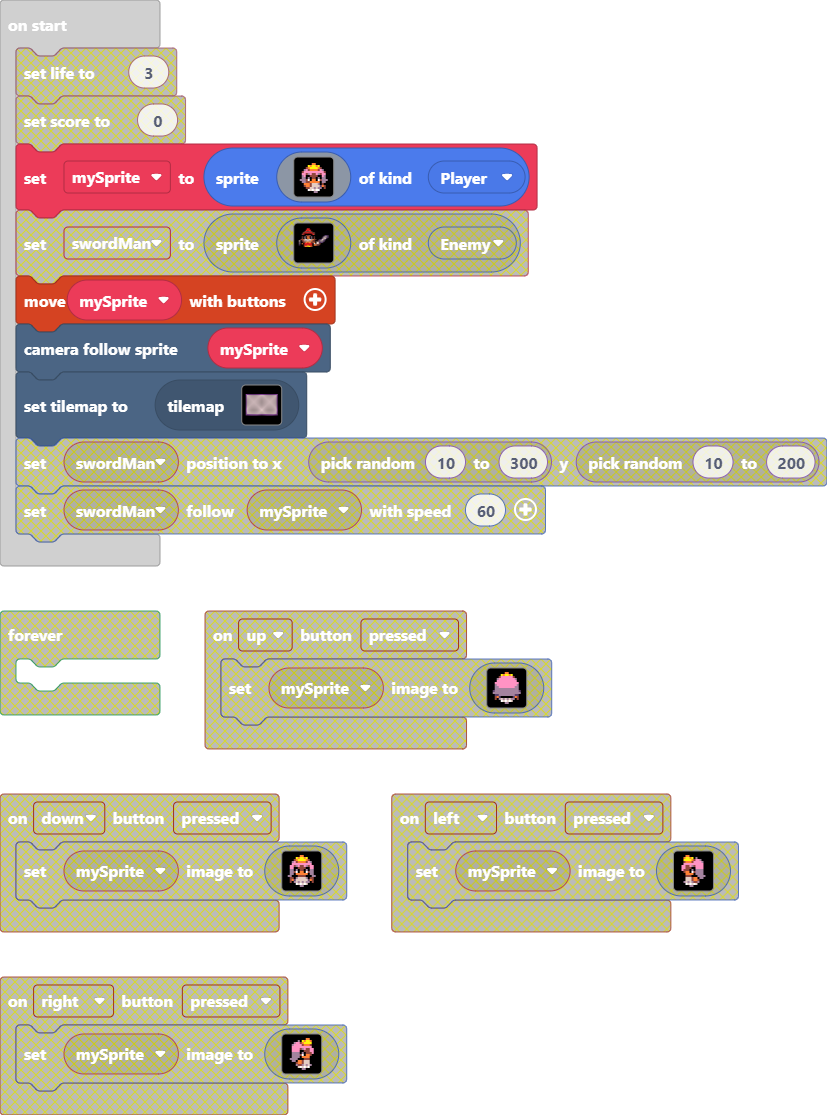
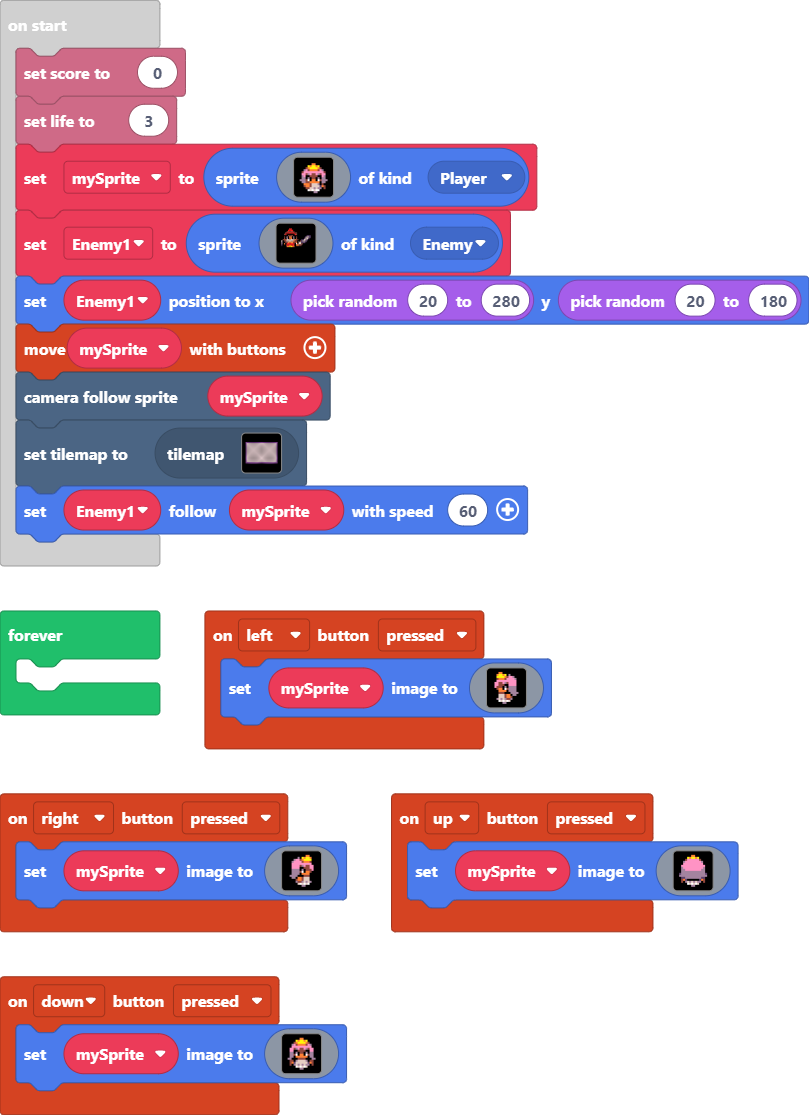
Update main.blocks, main.ts, tilemap.g.jres, tilemap.g.ts

diff --git a/tilemap.g.ts b/tilemap.g.ts
@@ -97,29 +97,6 @@ namespace myTiles {
 2............................2
 222222222222222222222222222222
 `, [myTiles.transparency16,sprites.dungeon.purpleOuterNorthWest,sprites.dungeon.purpleOuterNorthEast,sprites.dungeon.purpleOuterNorth1,sprites.dungeon.purpleOuterWest0,sprites.dungeon.purpleOuterSouthEast,sprites.dungeon.purpleOuterSouthWest,sprites.dungeon.purpleOuterSouth1,sprites.dungeon.purpleOuterEast0,sprites.dungeon.floorLight1], TileScale.Sixteen);
-            case "level2":
[1 lines of base64/hex data omitted]
-..............................
-..............................
-..............................
-..............................
-..............................
-..............................
-..............................
-..............................
-..............................
-..............................
-..............................
-..............................
-..............................
-..............................
-..............................
-..............................
-..............................
-..............................
-..............................
-..............................
-`, [myTiles.transparency16,sprites.dungeon.purpleOuterNorthWest,sprites.dungeon.purpleOuterNorthEast,sprites.dungeon.purpleOuterNorth1,sprites.dungeon.purpleOuterWest0,sprites.dungeon.purpleOuterSouthEast,sprites.dungeon.purpleOuterSouthWest,sprites.dungeon.purpleOuterEast0,sprites.dungeon.floorLight1,sprites.dungeon.greenOuterSouth0], TileScale.Sixteen);
             case "level6":
             case "level6":return tiles.createTilemap(hex`1000100000000000000000000000000000000000000000000000000000000000000000000000000000000000000000000000000000000000000000000000000000000000000000000000000000000000000000000000000000000000000000000000000000000000000000000000000000000000000000000000000000000000000000000000000000000000000000000000000000000000000000000000000000000000000000000000000000000000000000000000000000000000000000000000000000000000000000000000000000000000000000000000000000000000000000000000000000000000000000000000000000000000000000000000000000000000`, img`
 . . . . . . . . . . . . . . . . 
@@ -215,6 +192,29 @@ namespace myTiles {
 . . . . . . . . . . . . . . . . 
 . . . . . . . . . . . . . . . . 
 `, [myTiles.transparency16], TileScale.Sixteen);
+            case "level2":
[1 lines of base64/hex data omitted]
+..............................
+..............................
+..............................
+..............................
+..............................
+..............................
+..............................
+..............................
+..............................
+..............................
+..............................
+..............................
+..............................
+..............................
+..............................
+..............................
+..............................
+..............................
+..............................
+.2222222222222222222222222222.
+`, [myTiles.transparency16,sprites.dungeon.purpleOuterNorthWest,sprites.dungeon.purpleOuterNorthEast,sprites.dungeon.purpleOuterNorth1,sprites.dungeon.purpleOuterWest0,sprites.dungeon.purpleOuterSouthEast,sprites.dungeon.purpleOuterSouthWest,sprites.dungeon.purpleOuterEast0,sprites.dungeon.floorLight1,sprites.dungeon.greenOuterSouth0], TileScale.Sixteen);
         }
         return null;
     })

diff --git a/main.ts b/main.ts
@@ -1,4 +1,87 @@
-let mySprite = sprites.create(img`
+controller.up.onEvent(ControllerButtonEvent.Pressed, function () {
+    mySprite.setImage(img`
+        . . . . . f f 4 4 f f . . . . . 
+        . . . . f 5 4 5 5 4 5 f . . . . 
+        . . . f e 3 3 3 3 3 3 e f . . . 
+        . . f b 3 3 3 3 3 3 3 3 b f . . 
+        . . f 3 3 3 3 3 3 3 3 3 3 f . . 
+        . f 3 3 3 3 3 3 3 3 3 3 3 3 f . 
+        . f b 3 3 3 3 3 3 3 3 3 3 b f . 
+        . f b b 3 3 3 3 3 3 3 3 b b f . 
+        . f b b b b b b b b b b b b f . 
+        f c b b b b b b b b b b b b c f 
+        f b b b b b b b b b b b b b b f 
+        . f c c b b b b b b b b c c f . 
+        . . e 4 c f f f f f f c 4 e . . 
+        . . e f b d b d b d b b f e . . 
+        . . . f f 1 d 1 d 1 d f f . . . 
+        . . . . . f f b b f f . . . . . 
+        `)
+})
+controller.left.onEvent(ControllerButtonEvent.Pressed, function () {
+    mySprite.setImage(img`
+        . . . f 4 4 f f f f . . . . . . 
+        . . f 4 5 5 4 5 f b f f . . . . 
+        . . f 5 5 5 5 4 e 3 3 b f . . . 
+        . . f e 4 4 4 e 3 3 3 3 b f . . 
+        . . f 3 3 3 3 3 3 3 3 3 3 f . . 
+        . f 3 3 e e 3 b e 3 3 3 3 f . . 
+        . f 3 3 e e e f f 3 3 3 3 f . . 
+        . f 3 e e e f b f b b b b f . . 
+        . . f e 4 4 f 1 e b b b b f . . 
+        . . . f 4 4 4 4 f b b b b f f . 
+        . . . f e e e f f f b b b b f . 
+        . . . f d d d e 4 4 f b b f . . 
+        . . . f d d d e 4 4 e f f . . . 
+        . . f b d b d b e e b f . . . . 
+        . . f f 1 d 1 d 1 d f f . . . . 
+        . . . . f f b b f f . . . . . . 
+        `)
+})
+controller.right.onEvent(ControllerButtonEvent.Pressed, function () {
+    mySprite.setImage(img`
+        . . . . . . f f f f 4 4 f . . . 
+        . . . . f f b f 5 4 5 5 4 f . . 
+        . . . f b 3 3 e 4 5 5 5 5 f . . 
+        . . f b 3 3 3 3 e 4 4 4 e f . . 
+        . . f 3 3 3 3 3 3 3 3 3 3 f . . 
+        . . f 3 3 3 3 e b 3 e e 3 3 f . 
+        . . f 3 3 3 3 f f e e e 3 3 f . 
+        . . f b b b b f b f e e e 3 f . 
+        . . f b b b b e 1 f 4 4 e f . . 
+        . f f b b b b f 4 4 4 4 f . . . 
+        . f b b b b f f f e e e f . . . 
+        . . f b b f 4 4 e d d d f . . . 
+        . . . f f e 4 4 e d d d f . . . 
+        . . . . f b e e b d b d b f . . 
+        . . . . f f d 1 d 1 d 1 f f . . 
+        . . . . . . f f b b f f . . . . 
+        `)
+})
+controller.down.onEvent(ControllerButtonEvent.Pressed, function () {
+    mySprite.setImage(img`
+        . . . . . f f 4 4 f f . . . . . 
+        . . . . f 5 4 5 5 4 5 f . . . . 
+        . . . f e 4 5 5 5 5 4 e f . . . 
+        . . f b 3 e 4 4 4 4 e 3 b f . . 
+        . . f 3 3 3 3 3 3 3 3 3 3 f . . 
+        . f 3 3 e b 3 e e 3 b e 3 3 f . 
+        . f 3 3 f f e e e e f f 3 3 f . 
+        . f b b f b f e e f b f b b f . 
+        . f b b e 1 f 4 4 f 1 e b b f . 
+        f f b b f 4 4 4 4 4 4 f b b f f 
+        f b b f f f e e e e f f f b b f 
+        . f e e f b d d d d b f e e f . 
+        . . e 4 c d d d d d d c 4 e . . 
+        . . e f b d b d b d b b f e . . 
+        . . . f f 1 d 1 d 1 d f f . . . 
+        . . . . . f f b b f f . . . . . 
+        `)
+})
+let mySprite: Sprite = null
+info.setScore(0)
+info.setLife(3)
+mySprite = sprites.create(img`
     . . . . . . . f f . . . . . . . 
     . . . . . f f 4 4 f f . . . . . 
     . . . . f 5 4 5 5 4 5 f . . . . 
@@ -16,6 +99,37 @@ let mySprite = sprites.create(img`
     . . . f f 1 d 1 d 1 1 f f . . . 
     . . . . . f f f b b f . . . . . 
     `, SpriteKind.Player)
+let Enemy1 = sprites.create(img`
+    ......ffff..............
+    ....fff22fff............
+    ...fff2222fff...........
+    ..fffeeeeeefff..........
+    ..ffe222222eef..........
+    ..fe2ffffff2ef..........
+    ..ffffeeeeffff......ccc.
+    .ffefbf44fbfeff....cddc.
+    .ffefbf44fbfeff...cddc..
+    .fee4dddddd4eef.ccddc...
+    fdfeeddddd4eeffecddc....
+    fbffee4444ee4fddccc.....
+    fbf4f222222f1edde.......
+    fcf.f222222f44ee........
+    .ff.f445544f............
+    ....ffffffff............
+    .....ff..ff.............
+    ........................
+    ........................
+    ........................
+    ........................
+    ........................
+    ........................
+    ........................
+    `, SpriteKind.Enemy)
+Enemy1.setPosition(randint(20, 280), randint(20, 180))
 controller.moveSprite(mySprite)
 scene.cameraFollowSprite(mySprite)
 tiles.setCurrentTilemap(tilemap`level1`)
+Enemy1.follow(mySprite, 60)
+forever(function () {
+	
+})
